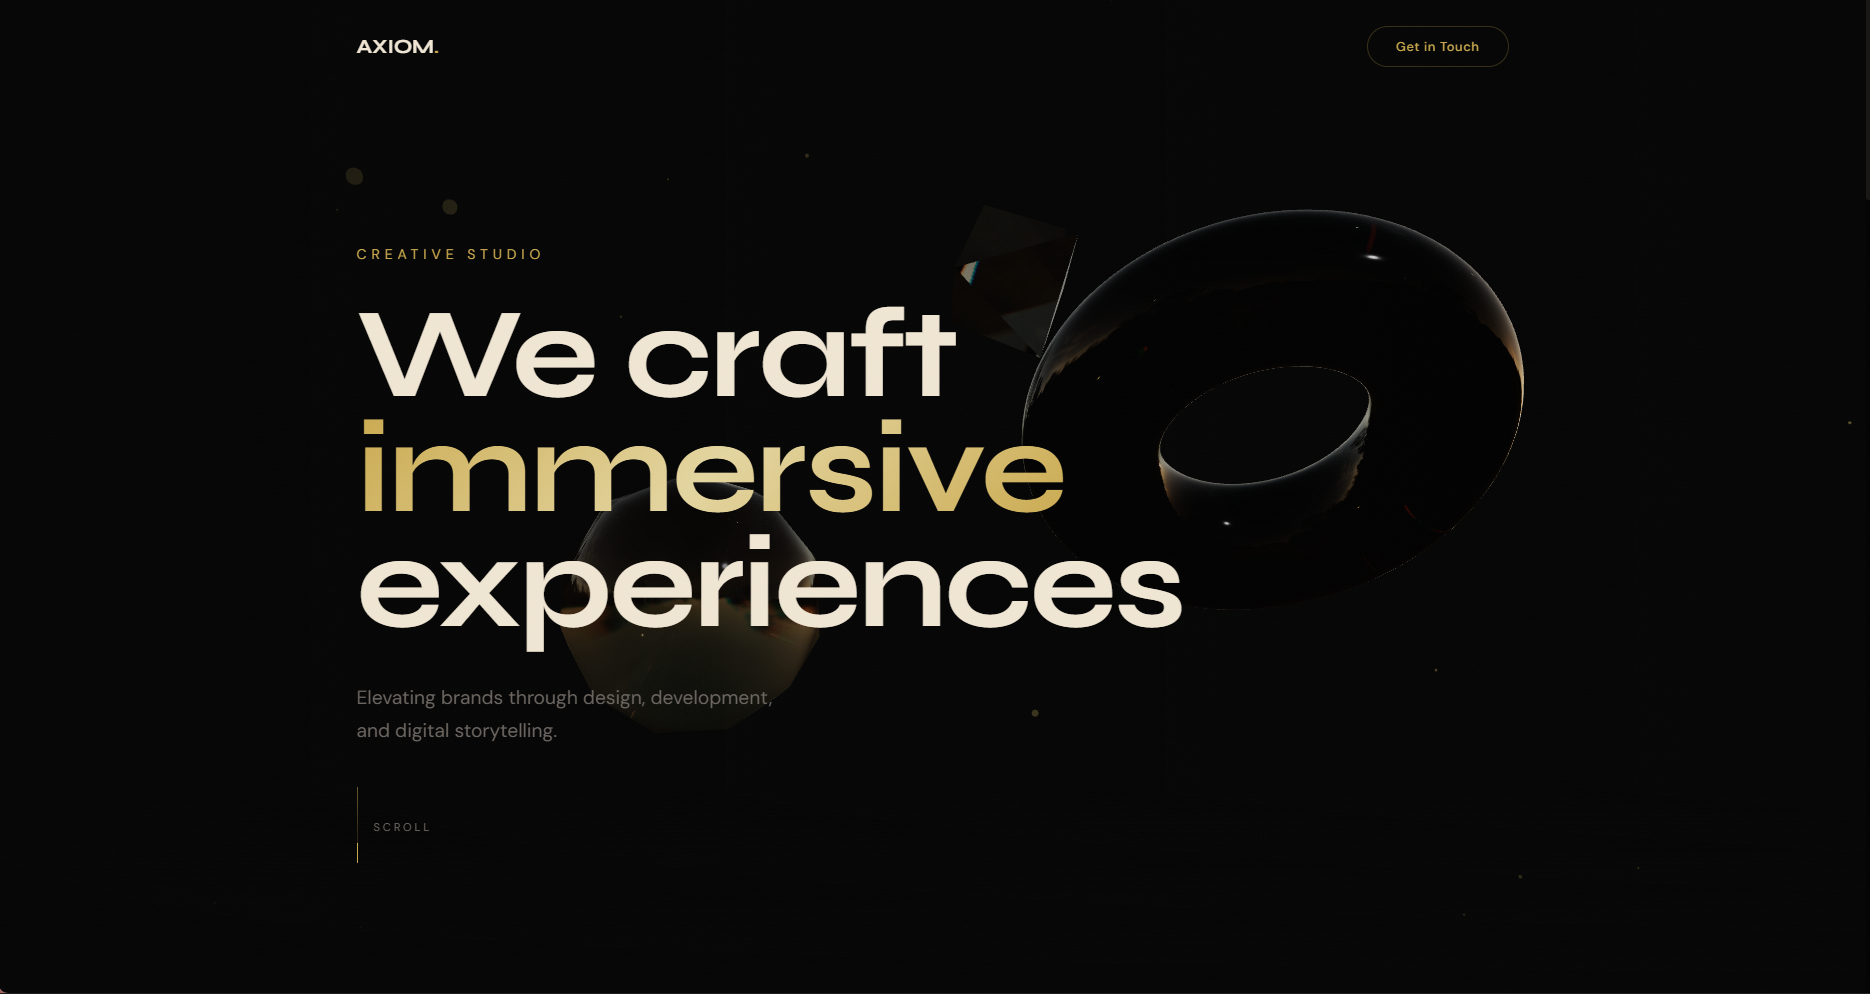
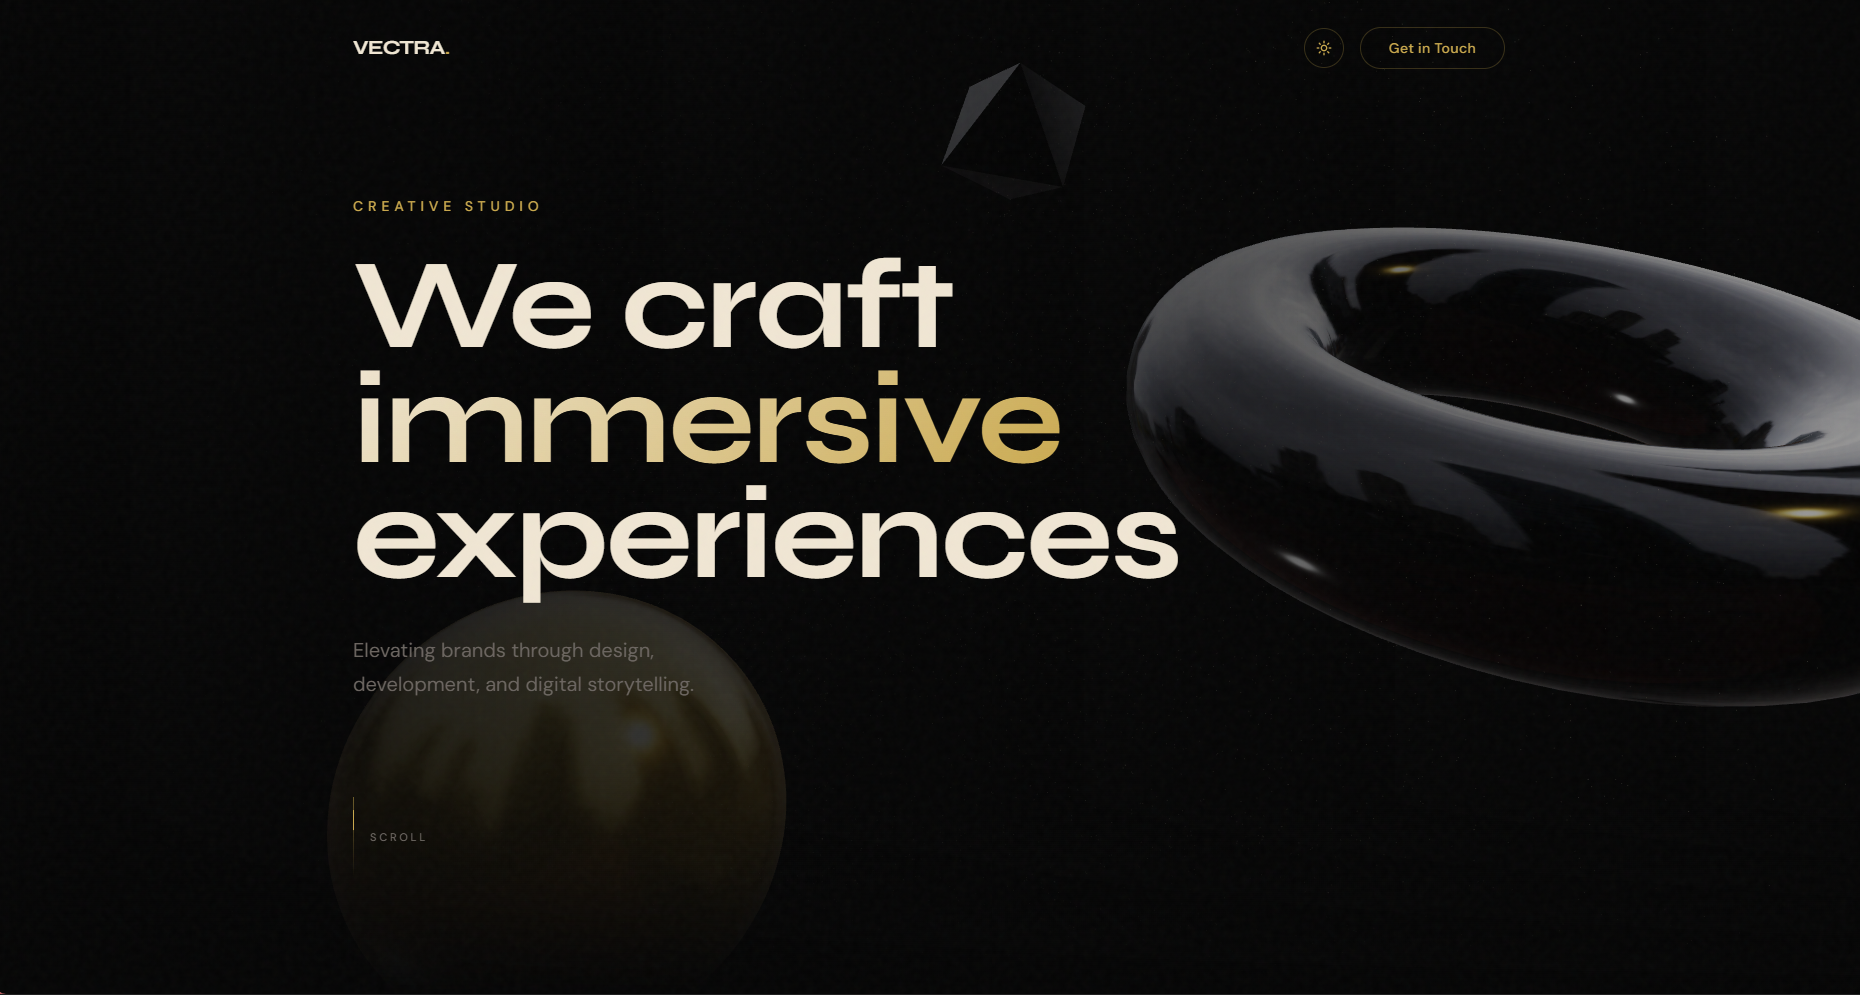
feat: add projects data file and supporting assets

diff --git a/src/data/projects.ts b/src/data/projects.ts
@@ -9,12 +9,12 @@ export interface Project {
 
 export const projects: Project[] = [
   {
-    title: "Axiom Studio Website",
+    title: "Vectra Studio Website",
     description: "3D Parallax effect using three.js and canvas API.",
     image: "/assets/project1.png",
     tags: ["GitHub", "Open Source", "Three.js", "Canvas", "JavaScript"],
-    github: "https://github.com/XRomieo/3d-Parallax-Sample",
-    demo: "https://3d-parallax-sample.vercel.app"
+    github: "https://github.com/m-m4h4d/vectra",
+    demo: "https://vectra-five-red.vercel.app/"
   },
   {
     title: "SpendWise - Expense Tracker",
@@ -87,5 +87,13 @@ export const projects: Project[] = [
     tags: ["Flutter", "Dart", "GitHub", "Vercel", "Open Source"],
     github: "https://github.com/m-m4h4d/bazaarflow",
     demo: "https://bazaarflow.vercel.app/"
+  },
+  {
+    title: "EduPulse",
+    description: "EduPulse is a stunning, cross-platform learning management application. Seamlessly switch between your mobile device and the web without missing a beat.",
+    image: "/assets/project11.png",
+    tags: ["Flutter", "Dart", "GitHub", "Vercel", "Open Source"],
+    github: "https://github.com/m-m4h4d/edupulse",
+    demo: "https://edupulse-phi-jet.vercel.app/"
   }
 ];
